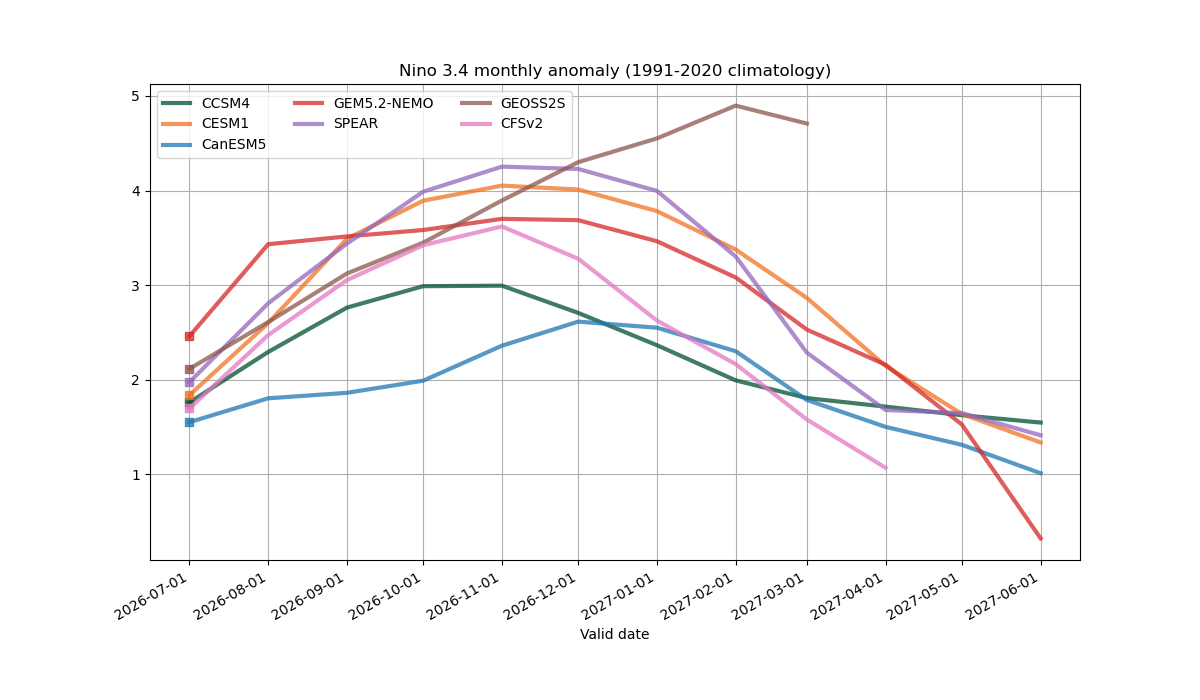
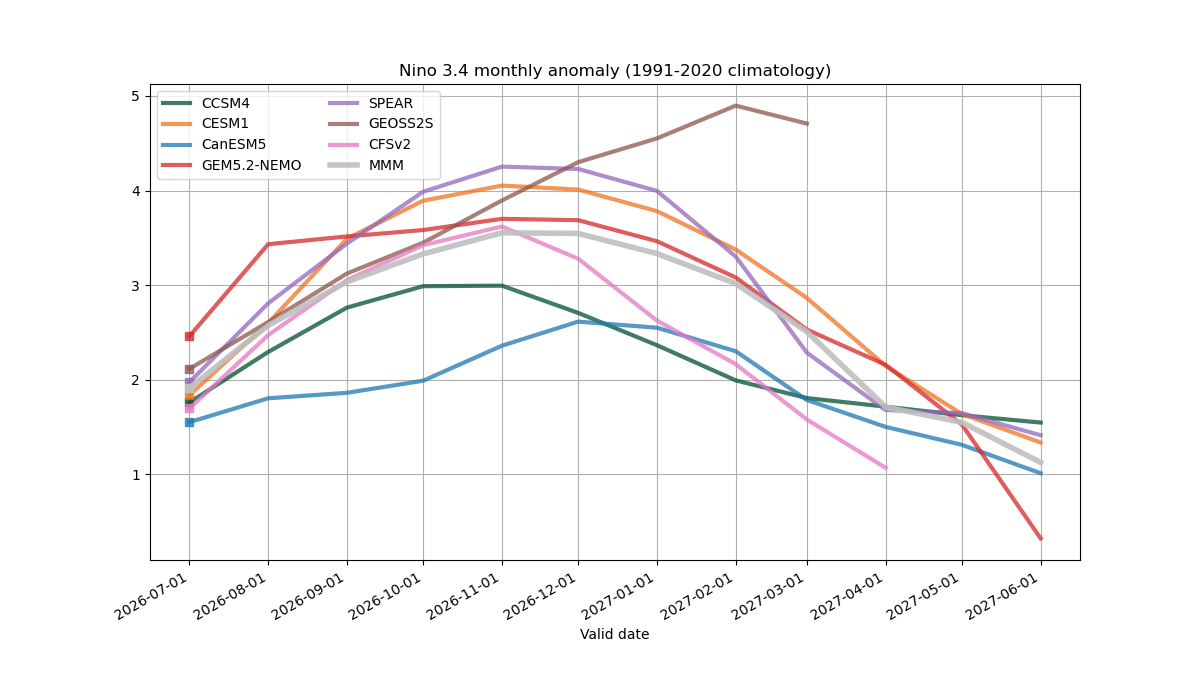
Add multi-model mean (MMM) to latest_forecast Compare/Spread/Mean plots
Light-gray MMM line (equal-weight mean across models, drawn last/on top)
added to the three plume line plots, with legend ncol standardized to 2
across all three. Regenerated all 12 affected figures.

diff --git a/scripts/latest_forecast.py b/scripts/latest_forecast.py
@@ -47,9 +47,12 @@ matplotlib.use("Agg")
 
 import numpy as np
 import pandas as pd
+import xarray as xr
 import matplotlib.pyplot as plt
 
 import config
+
+MMM_COLOR = "0.75"
 
 # Single-letter month initials, index 0 = January (the notebook's "m_str").
 SEASON_INITIALS = "JFMAMJJASOND"
@@ -187,6 +190,7 @@ def plot_compare(ds, start, avail, plume_colors, spec, now_idx, prev_idx, date_s
     start_month_prev = int(ds.S.isel(S=prev_idx).dt.month)
     start_month_now = int(ds.S.isel(S=now_idx).dt.month)
 
+    prev_list, now_list = [], []
     for im in avail:
         model = ds.model.isel(model=im).item()
         color = plume_colors[im]
@@ -194,16 +198,25 @@ def plot_compare(ds, start, avail, plume_colors, spec, now_idx, prev_idx, date_s
         prev = _index_transform(ds[var].isel(S=prev_idx).mean("M").isel(model=im), spec, seasonal, model, start_month_prev)
         ax.plot(leads_prev, prev, "--", lw=2, color=color, alpha=0.5)
         ax.plot(leads_prev[l0], prev.isel(L=l0), "o", lw=2, color=color, alpha=0.5)
+        prev_list.append(prev)
 
         now = _index_transform(ds[var].isel(S=now_idx).mean("M").isel(model=im), spec, seasonal, model, start_month_now)
         ax.plot(leads_now, now, lw=3, color=color, label=config.short_label(model), alpha=0.75)
         ax.plot(leads_now[l0], now.isel(L=l0), "s", lw=3, color=color, alpha=0.75)
+        now_list.append(now)
+
+    mmm_prev = xr.concat(prev_list, dim="model").mean("model")
+    mmm_now = xr.concat(now_list, dim="model").mean("model")
+    ax.plot(leads_prev, mmm_prev, "--", lw=3, color=MMM_COLOR, alpha=0.9)
+    ax.plot(leads_prev[l0], mmm_prev.isel(L=l0), "o", lw=3, color=MMM_COLOR, alpha=0.9)
+    ax.plot(leads_now, mmm_now, lw=4, color=MMM_COLOR, label="MMM", alpha=0.9)
+    ax.plot(leads_now[l0], mmm_now.isel(L=l0), "s", lw=4, color=MMM_COLOR, alpha=0.9)
 
     ticks = pd.date_range(start[prev_idx], periods=13, freq="MS")
     _set_xaxis(fig, ax, ticks, seasonal)
     kind_label = "seasonal (3-month running mean)" if seasonal else "monthly"
     ax.set_title(f"{spec['name']} {kind_label} anomaly (1991-2020 climatology mostly)")
-    ax.legend(ncol=1)
+    ax.legend(ncol=2)
     ax.grid(visible=True)
     fig.set_facecolor("white")
     plt.tight_layout()
@@ -224,6 +237,7 @@ def plot_spread(ds, start, avail, colors, spec, now_idx, date_suffix, seasonal=F
     leads = pd.date_range(start[now_idx], periods=12, freq="MS")
     start_month_now = int(ds.S.isel(S=now_idx).dt.month)
 
+    mean_list = []
     for im in avail:
         model = ds.model.isel(model=im).item()
         color = colors[im]
@@ -233,6 +247,11 @@ def plot_spread(ds, start, avail, colors, spec, now_idx, date_suffix, seasonal=F
         ax.plot(leads, members.T, lw=1.5, color=color, alpha=0.35)
         ax.plot(leads, mean, lw=4, color=color, label=config.short_label(model), alpha=0.85)
         ax.plot(leads[l0], mean.isel(L=l0), "s", lw=3, color=color)
+        mean_list.append(mean)
+
+    mmm = xr.concat(mean_list, dim="model").mean("model")
+    ax.plot(leads, mmm, lw=5, color=MMM_COLOR, label="MMM", alpha=0.9)
+    ax.plot(leads[l0], mmm.isel(L=l0), "s", lw=4, color=MMM_COLOR)
 
     ticks = pd.date_range(start[now_idx], periods=12, freq="MS")
     _set_xaxis(fig, ax, ticks, seasonal)
@@ -259,18 +278,24 @@ def plot_mean(ds, start, avail, colors, spec, now_idx, date_suffix, seasonal=Fal
     leads = pd.date_range(start[now_idx], periods=12, freq="MS")
     start_month_now = int(ds.S.isel(S=now_idx).dt.month)
 
+    mean_list = []
     for im in avail:
         model = ds.model.isel(model=im).item()
         color = colors[im]
         mean = _index_transform(ds[var].isel(S=now_idx).mean("M").isel(model=im), spec, seasonal, model, start_month_now)
         ax.plot(leads, mean, lw=3, color=color, label=config.short_label(model), alpha=0.75)
         ax.plot(leads[l0], mean.isel(L=l0), "s", lw=3, color=color, alpha=0.75)
+        mean_list.append(mean)
+
+    mmm = xr.concat(mean_list, dim="model").mean("model")
+    ax.plot(leads, mmm, lw=4, color=MMM_COLOR, label="MMM", alpha=0.9)
+    ax.plot(leads[l0], mmm.isel(L=l0), "s", lw=4, color=MMM_COLOR)
 
     ticks = pd.date_range(start[now_idx], periods=12, freq="MS")
     _set_xaxis(fig, ax, ticks, seasonal)
     kind_label = "seasonal (3-month running mean)" if seasonal else "monthly"
     ax.set_title(f"{spec['name']} {kind_label} anomaly (1991-2020 climatology)")
-    ax.legend(ncol=3)
+    ax.legend(ncol=2)
     ax.grid(visible=True)
     fig.set_facecolor("white")
 

diff --git a/specs/latest_forecast.md b/specs/latest_forecast.md
@@ -1,6 +1,6 @@
 # latest_forecast.py — Behavioral Specification
 
-> Last reviewed against code: 2026-07-07 (scaling factor switched to grand-mean pooling)
+> Last reviewed against code: 2026-07-09 (MMM line added to Compare/Spread/Mean)
 
 ## Purpose
 
@@ -236,6 +236,21 @@ rather than plotted as a gap.
   default cycle.
 - **Mean** — selected init (`now_idx`) only, ensemble-mean lines. Same color
   override array as Compare/Spread.
+- **Multi-model mean (MMM)** — Compare, Spread, and Mean each also plot an
+  equal-weight mean across `avail` models (`MMM_COLOR = "0.75"`, light gray),
+  computed from the same per-model ensemble-mean arrays already plotted for
+  that figure (i.e. `xr.concat([...], dim="model").mean("model")` over the
+  per-model `_index_transform` output collected during the loop — same MMM
+  definition as `skill.py`'s `add_mmm`: equal-weight mean of each model's own
+  member mean, not a member-pooled grand mean). It is plotted **last**, after
+  the per-model loop, with no explicit `zorder`, so it renders on top of the
+  colored per-model lines (matplotlib's default increasing z-order by call
+  order) rather than being buried under them. In Compare this means two MMM
+  lines (previous init dashed, selected init solid), matching the per-model
+  convention; legend label `"MMM"`. **Not** added to the Grid figure — tried
+  and deliberately reverted (see Synchronization Log 2026-07-09) since Grid's
+  panels are member x lead heatmaps and MMM has no member dimension of its
+  own.
 
 ### 4a. X-axis ticks and limits
 
@@ -298,6 +313,8 @@ limits.
 | All other models | climatology = per-`S.month` ensemble mean over **target (valid) time** in `[CLIM_START_YEAR, CLIM_END_YEAR]` | Standard fixed climatology period (1991-2020), defined on valid time rather than init time |
 | `config.CLIM_START_YEAR`, `config.CLIM_END_YEAR` | 1991, 2020 | Standard WMO 30-year normal period (truncated at 2020, the last full decade at time of writing) |
 | Plume color overrides | `#005030` (model 0), `#F17221` (model 1), `#1f77b4` (model 2) | Notebook convention distinguishing the first three models from the default matplotlib cycle |
+| `MMM_COLOR` | `"0.75"` (light gray) | Visually distinct from all per-model colors so the multi-model mean reads as a summary line, not another model |
+| Legend `ncol` (Compare/Spread/Mean) | `2` (all three) | Standardized 2026-07-09 — was inconsistent (1/2/3) before the MMM entry brought every legend to the same 8-item (7 models + MMM) count |
 | Seasonal window | `rolling(L=3, center=True)` | Centered (not trailing) so the season label (e.g. DJF) matches the NOAA ONI overlapping-season convention, which is also centered |
 | `SEASON_INITIALS` | `"JFMAMJJASOND"` | Single-letter month initials (index 0 = January) used to build 3-letter season labels |
 | `config.TROPICS_LAT` | `slice(-20, 20)`, all longitudes | Tropical-mean region for the relative Niño-3.4 index, per L'Heureux, Tippett et al. (2024); van Oldenborgh et al. (2021) originated the index, the paper tested 15-30° alternatives and confirmed 20°S-20°N |
@@ -439,3 +456,4 @@ print("Verification passed.")
 | 2026-07-07 | **Switched `config.rel_scaling_factor`'s denominator from per-member to grand-mean pooling.** Formula change: `sqrt(ref.ssta_rel.groupby('S.month').var('S').mean('M'))` → `sqrt(ref.ssta_rel.groupby('S.month').var(['S', 'M']))` (both `factor_monthly` and `factor_seasonal`). Motivated by `scripts/rel_scaling_compare.py`'s A-vs-C evidence (`n34r_scaling_msess_diff_AC_start.png`): MSESS is not worse for grand-mean (mean MSESS(per-member) − MSESS(grand-mean) = −0.015 across model/month/lead, i.e. grand-mean marginally better), and grand-mean is the simpler estimator to describe. `rel_scaling_compare.py` restructured accordingly: `A` = per-member (now the local alternative, `_factor_permember`, moved out of `config.py`), `B` = ensemble-mean (flawed, unchanged), `C` = `config.rel_scaling_factor` (now grand-mean, chosen/production). Added the third pairwise comparison, B-vs-C (`n34r_scaling_msess_diff_BC_{start,target}.png`, full-range color scale — not dominated by outliers the way A-vs-C was): mean MSESS(B) − MSESS(C) = −0.067, i.e. grand-mean beats the flawed ensemble-mean estimator by even more than per-member did. All production `n34r_*`/`n34r_seasonal_*` figures regenerated (`latest_forecast.py`) — scaling factor numeric range shifted slightly, 1991-2020 monthly range [0.60, 2.42] → [0.51, 2.30]. See Algorithm §1a and Constants & Scientific Rationale. | ✓ |
 | 2026-07-07 | Output moved from `plots/` to `plots/latest_forecast/` (per-script subdirectory, `config.PLOTS_DIR_LATEST_FORECAST`) | ✓ |
 | 2026-07-07 | `config.ERSSTV5_NC` default changed to the repo-local `OBS_DIR / "ERSSTv5.sst.mnmean.nc"` (see `specs/skill.md` same-date row for details). `rel_scaling_factor` 1991-2020 range verified unchanged ([0.51, 2.30] monthly); figures regenerated. | ✓ |
+| 2026-07-09 | **Added a multi-model mean (MMM) line to Compare/Spread/Mean.** New `MMM_COLOR = "0.75"` constant; each function collects the per-model arrays it already computes into a list during the loop, then plots `xr.concat(..., dim="model").mean("model")` after the loop with no explicit `zorder` (renders on top, drawn last) and `label="MMM"`. Also standardized `ax.legend(ncol=...)` to `2` in all three (was 1/2/3). **Also tried, then reverted same-session:** adding an 8th "MMM" panel to the Grid facet (`plot_grid`) by broadcasting the same MMM series across the `M` coordinate into a uniform-color block — the user judged this a bad idea and asked it removed; Grid stays at 7 panels, 8th `col_wrap` slot empty, as before. See Algorithm §4 and Constants. All 12 line-plot figures (`n34_*`/`n34r_*` compare/spread/mean, monthly/seasonal) regenerated; Grid figures unchanged from pre-session. | ✓ |
